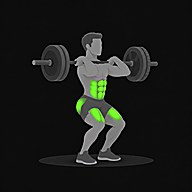
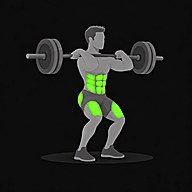
fix(catalogo): QA tanda 3 - clean_press_1 muestra la recepcion de la cargada y hpc_3 distingue recepcion power (cuarto de squat) de la completa; caption 1 de Cargada y press y SQL batch2 actualizados

Changed region(s): [[0.125, 0.125, 0.875, 0.875]]

diff --git a/Packages/ReperaDomain/Sources/ReperaDomain/CatalogSpanish.swift b/Packages/ReperaDomain/Sources/ReperaDomain/CatalogSpanish.swift
@@ -1505,7 +1505,7 @@ public enum CatalogSpanish {
             "Estándar: extensión completa y barra que sigue subiendo tras la cadera.",
         ],
         "Cargada y press": [
-            "Inicio en rack frontal: de pie con la barra sobre los hombros, codos ligeramente altos y pies a la anchura de la cadera.",
+            "Cargada a rack frontal: recibe la barra sobre los hombros en cuarto de squat, codos altos, torso erguido y cadera por encima de las rodillas.",
             "Press estricto: la barra sube por delante de la cara con las piernas bloqueadas y el torso vertical.",
             "Bloqueo overhead: brazos extendidos con la barra sobre el mediopié y la cabeza ligeramente adelantada.",
             "Si el press falla, baja la carga del clean o haz push press programado.",
